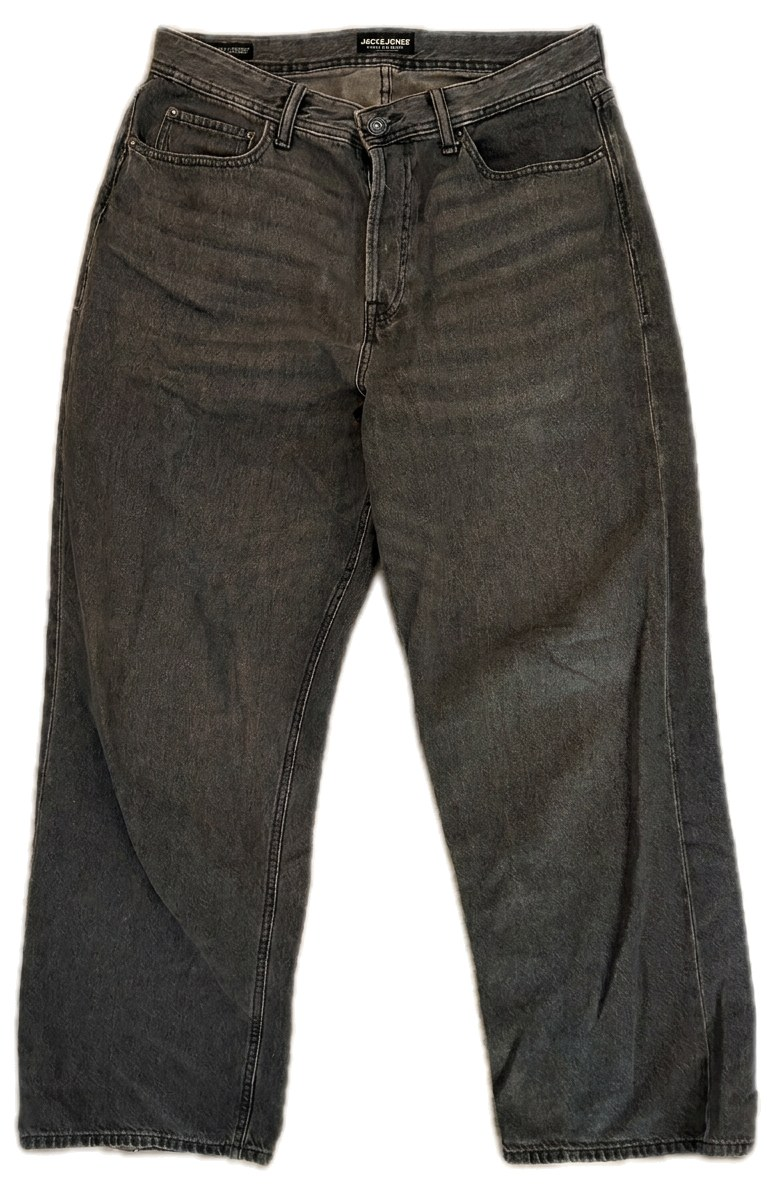
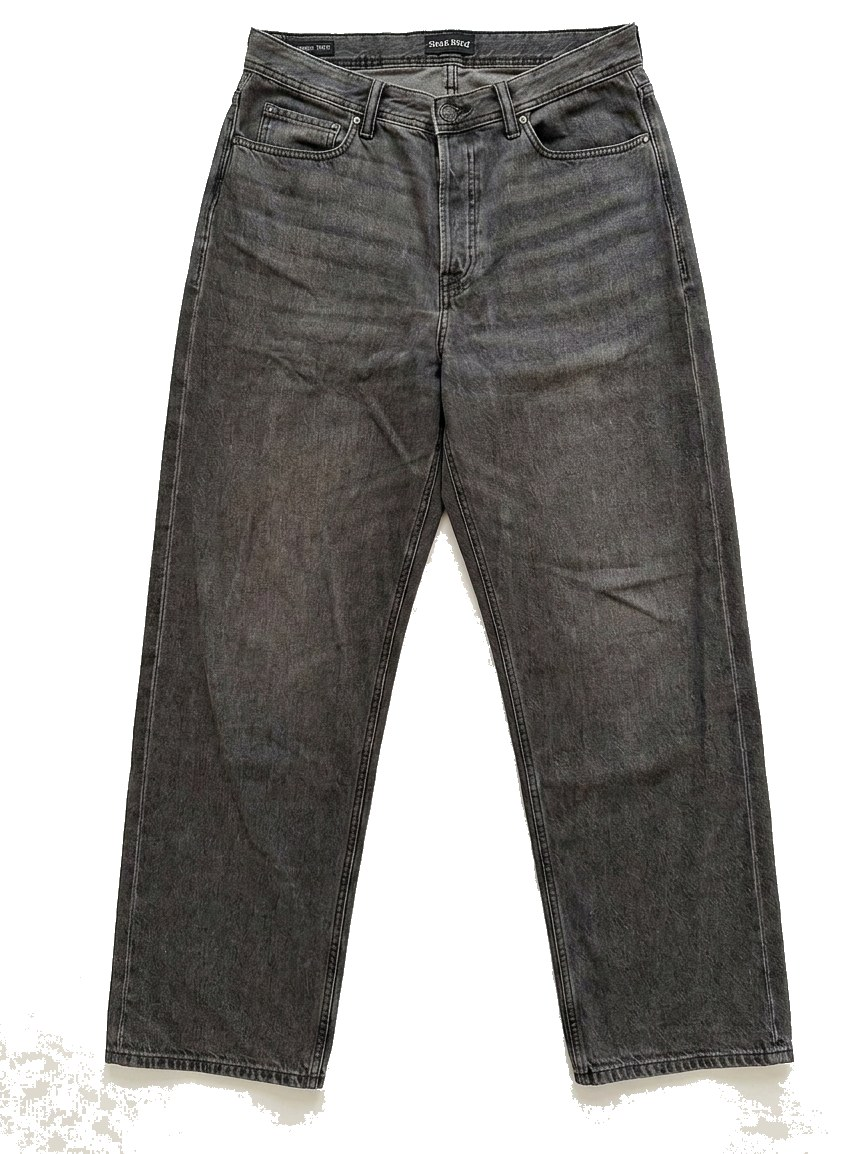
Fire billeder koert om fra fotos med baggrund; reference og fast pose i toj.py
Udklip som input gav kroeller og mannequin-volumen der ikke ville rette
sig; fotos med baggrund gjorde. klargoer.py tjekker nu hele kanten, ikke
kun hjoernerne, foer tolerancen regnes for god nok.

diff --git a/index.html b/index.html
@@ -16,7 +16,7 @@
 <!-- ?v= tvinger Safari til at hente filen paa ny. Bump datoen naar du aendrer
      style.css eller script.js - ellers kan telefonen sidde fast paa en gammel
      udgave, selvom den nye er pushet. -->
-<link rel="stylesheet" href="style.css?v=20260913j">
+<link rel="stylesheet" href="style.css?v=20260914a">
 </head>
 <body>
 
@@ -198,6 +198,6 @@
   </form>
 </dialog>
 
-<script src="script.js?v=20260913j" defer></script>
+<script src="script.js?v=20260914a" defer></script>
 </body>
 </html>

diff --git a/script.js b/script.js
@@ -135,7 +135,7 @@ const files = {
 /* Saet denne op naar et billede erstattes med et nyt UNDER SAMME filnavn
    (fx efter en rettelse som denne). Ellers bliver den gamle udgave siddende
    fast i Safaris cache paa telefonen, selvom filen er skiftet ud paa serveren. */
-const ASSET_VERSION = "20260912a";
+const ASSET_VERSION = "20260914a";
 
 /* Paenhed gaar fra 1 (mest afslappet) til 5 (pusset op) og bruges til at
    matche toejet med den valgte lejlighed. Toej uden en vaerdi lander paa

diff --git a/toj.py b/toj.py
@@ -6,7 +6,9 @@ from google.genai import types
 
 load_dotenv(".env")
 
-IND   = Path("raw")     # mappe med dine originalbilleder
+# Inputmappen kan skiftes med TOJ_IND=raw-baggrund - fotos MED baggrund gav
+# bedre resultat paa de stykker der ikke ville rette sig fra udklippene, se CLAUDE.md.
+IND   = Path(os.environ.get("TOJ_IND", "raw"))     # mappe med dine originalbilleder
 UD    = Path("klar")    # mappe hvor output lander
 MODEL = "gemini-3-pro-image"
 
@@ -28,31 +30,74 @@ FORSOEG = 5    # antal forsøg per billede
 
 # Testkørsel: sæt TEST til navnene på de stykker du vil teste (uden .png).
 # Sæt TEST = None når du vil køre hele garderoben.
-TEST = {"mid-7", "mid-11", "shoes-7", "shoes-13", "shoes-15", "shoes-18", "shorts-2"}
+# Anden omgang (september 2026): otte stykker der dækker de tre ting der
+# varierede i første omgang - krøller (top-15, top-37, bottom-10), volumen som
+# en usynlig mannequin (top-25, mid-22), og et par der var gode i forvejen
+# (top-7, mid-30, outerwear-6) for at se at de ikke bliver dårligere.
+# Tredje omgang: aermelinjen rettet (korte aermer ud til siden), haardere ord
+# om denim og volumen. top-7 er med for at bevise at gode ikke bliver daarlige.
+TEST = {"top-15", "top-7", "bottom-10", "top-25"}
+
+# Referencebillede per præfiks: et af de eksisterende billeder der har præcis
+# den stil alle skal have. Sendes med som billede nummer to, så modellen
+# efterligner en konkret stil i stedet for at tolke ord - det er det stærkeste
+# greb for at få en rød tråd. Sko har ingen reference; de var ensartede nok.
+REFERENCER = {
+    "top":       "img/top-7.jpg",
+    "mid":       "img/top-7.jpg",
+    "outerwear": "img/outerwear-5.jpg",
+    "bottom":    "img/bottom-11.jpg",
+    "shorts":    "img/bottom-11.jpg",
+}
 
 # Tøj der kan lægges fladt. Fælles prompt for alle kategorier på nær sko.
 # Katalog-look: tøjet skal se nyt og nyvasket ud, ikke slidt. Slid-klausulen
 # fra den første udgave er bevidst fjernet - det var den, der holdt det
 # gullige og brugte look fast. Identiteten holdes stadig fast (samme farve,
 # print, snit), ellers kommer der et andet stykke tøj ud.
-PROMPT_FLADT = """Transform this photo into a clean e-commerce product shot,
-as if the garment were brand new in a catalogue.
-Lay the garment completely flat and symmetrical, sleeves or legs
-extended, collar or waistband centered. The input photo may be rotated
-or sideways: rotate the garment so it stands upright in the final image,
-collar or waistband at the top and hem at the bottom, never lying on its
-side. Remove all wrinkles and creases,
-and make the fabric look freshly laundered and pressed. Remove stains,
-dirt, pilling, yellowing and discoloration, so the garment looks clean
-and evenly colored.
+# Anden udgave af prompten. Den første lod modellen vælge pose selv
+# ("sleeves extended" kan betyde ud til siden eller ned langs kroppen), og
+# den tog nogle gange en usynlig mannequin med volumen i skuldrene i stedet
+# for en flad genstand. Denne udgave låser én pose fast og peger på et
+# referencebillede. Krølle-instruktionen er skærpet, fordi et mindretal
+# kom tilbage ukrøllede alligevel.
+PROMPT_FLADT = """You are given two images. The FIRST image is a photo of a
+garment. The SECOND image is a style reference: a finished product shot in
+exactly the style the output must have. Copy the style of the second image
+- the flat presentation, the lighting, the framing, the white background -
+but the garment itself must be the one from the FIRST image.
+
+Produce a clean e-commerce product shot of the garment from the first
+image, as if it were brand new in a catalogue:
+
+- The garment lies perfectly FLAT on the surface, photographed straight
+  from above. It is EMPTY: no body inside it, no invisible mannequin, no
+  volume or rounding in the shoulders or chest, no shading that suggests a
+  torso. Think of it as a paper cut-out with zero thickness.
+- Short sleeves lie in their natural position, pointing out to the sides,
+  fully visible and never folded under or tucked in. Long sleeves lie
+  straight down along the sides of the body. Trouser legs lie straight
+  down, parallel, slightly apart. Collar or waistband centered at the top,
+  hem at the bottom. Perfectly symmetrical.
+- The input photo may be rotated or sideways: rotate the garment so it
+  stands upright, never lying on its side.
+- The fabric is freshly laundered and PRESSED: absolutely no wrinkles,
+  creases, folds or bunching anywhere. Smooth and even like a new garment
+  on a shop shelf. This is required even if the photo is very wrinkled.
+  For denim and trousers: keep the fading and the weave of the fabric,
+  but the surface must be completely smooth - creases across the legs,
+  at the knees or at the crotch are wrinkles, not texture, and must go.
+- Remove stains, dirt, pilling, yellowing and discoloration, so the color
+  is clean and even.
+
 It must remain the exact same garment: the same base color, the same
 pattern, the same print and its placement, the same cut, collar, buttons
 and proportions. Do not invent details and do not restyle the design.
+
 The background must be flat, uniform, pure white (#FFFFFF) across the
 whole frame: no grey backdrop, no gradient, no vignette, and no cast
-shadow on the surface under the garment.
-Soft even studio lighting, straight top-down view, garment centered and
-filling the frame."""
+shadow on the surface under the garment. Soft even studio lighting,
+garment centered and filling the frame."""
 
 # Sko kan ikke lægges fladt med "ærmer og ben strakt ud" - de skal stå
 # i den sædvanlige produktvinkel fra siden.
@@ -127,11 +172,19 @@ for i, fil in enumerate(filer, 1):
     mime = mimetypes.guess_type(fil.name)[0] or "image/jpeg"
     billede = types.Part.from_bytes(data=fil.read_bytes(), mime_type=mime)
 
+    # Foto først, reference bagefter - prompten omtaler dem som første og anden.
+    indhold = [billede]
+    reference = REFERENCER.get(præfiks)
+    if reference:
+        indhold.append(types.Part.from_bytes(data=Path(reference).read_bytes(),
+                                             mime_type="image/jpeg"))
+    indhold.append(prompt)
+
     for forsøg in range(FORSOEG):
         try:
             svar = client.models.generate_content(
                 model=MODEL,
-                contents=[billede, prompt],
+                contents=indhold,
                 config=types.GenerateContentConfig(
                     response_modalities=["IMAGE"],
                     image_config=types.ImageConfig(aspect_ratio=format)),

diff --git a/klargoer.py b/klargoer.py
@@ -30,6 +30,7 @@ UD   = Path("klar-klargjort")
 LUFT     = 0.02      # andel af motivets stoerrelse der beholdes som ramme
 KVALITET = 88        # JPEG-kvalitet - 88 er visuelt uskelneligt fra PNG her
 TRIN = (12, 30, 45)  # tolerancer der proeves i raekkefoelge
+KANT_ANDEL = 0.995   # saa stor en del af kanten skal vaere baggrund foer tolerancen er god nok
 
 
 def find_baggrund(im, tolerance):
@@ -67,11 +68,16 @@ def klargoer(sti):
     w, h = im.size
     px = im.load()
 
-    # Proev stadig loesere tolerance indtil hjoernerne bliver hvide
+    # Proev stadig loesere tolerance indtil (naesten) hele kanten er baggrund.
+    # Foer blev kun de fire hjoerner tjekket, og saa slap et baand igennem
+    # hvor baggrunden var moerkere langs den ene kant end i hjoernerne -
+    # modellen tegner af og til en papirbaggrund med en svag gradient.
+    kant = [(x, y) for x in range(w) for y in (2, h-3)] + \
+           [(x, y) for y in range(h) for x in (2, w-3)]
     for tolerance in TRIN:
         erbag = find_baggrund(im, tolerance)
-        hjoerner = [(2, 2), (w-3, 2), (2, h-3), (w-3, h-3)]
-        if all(erbag[y*w + x] for x, y in hjoerner):
+        andel = sum(erbag[y*w + x] for x, y in kant) / len(kant)
+        if andel >= KANT_ANDEL:
             break
 
     for y in range(h):

diff --git a/CLAUDE.md b/CLAUDE.md
@@ -35,8 +35,10 @@ skabet/
     outerwear-*.jpg, mid-*.jpg, top-*.jpg, bottom-*.jpg, shoes-*.jpg   produktbilleder
     shorts-*.jpg          shorts-pulje, se "Sådan virker logikken"
     original-jpg/       de oprindelige fotos, git-ignoreret, bruges ikke af appen
-  raw/                  de 119 fotos som de kom fra kameraet, git-ignoreret
+  raw/                  de 119 fotos som UDKLIP (gennemsigtig baggrund), git-ignoreret
+  raw-baggrund/         fotos MED baggrund - det input der virker bedst, git-ignoreret
   klar/                 modellens raa output, git-ignoreret
+  klar-v1/ -v2/ -v3/    gamle outputs fra tidligere omgange, git-ignoreret
   klar-klargjort/       efter klargoer.py - kopieres til img/, git-ignoreret,
                         slettes trygt (klargoer.py laver den igen gratis)
   toj.py                sender billeder til Gemini, se "Billederne"
@@ -515,15 +517,24 @@ trial-kreditten kan ikke bruges der. 119 billeder kostede cirka 100 kr.
 
 To scripts, som køres i rækkefølge:
 
-1. **`toj.py`** sender hvert foto i `raw/` til modellen og gemmer svaret i
-   `klar/`. Prompten vælges ud fra filnavnets præfiks (`PROMPTS`), og
-   billedformatet ligeså (`FORMATER`). Tøj bedes om et stående 3:4-format og
-   sko om et liggende 4:3 — **det er formatet, ikke prompten, der får
-   modellen til at vende motivet rigtigt.** Uden det arvede den bare
-   originalfotoets rotation.
+1. **`toj.py`** sender hvert foto i `raw/` (eller mappen i miljøvariablen
+   `TOJ_IND`) til modellen og gemmer svaret i `klar/`. Prompten vælges ud
+   fra filnavnets præfiks (`PROMPTS`), og billedformatet ligeså
+   (`FORMATER`). Tøj bedes om et stående 3:4-format og sko om et liggende
+   4:3 — **det er formatet, ikke prompten, der får modellen til at vende
+   motivet rigtigt.** Uden det arvede den bare originalfotoets rotation.
+   Der sendes desuden et **referencebillede** med (`REFERENCER`, ét af de
+   eksisterende billeder pr. præfiks), som prompten peger på som "sådan
+   skal stilen være". Prompten låser posen fast: fladt, tomt, korte ærmer
+   ud til siden, lange ærmer ned langs kroppen.
 2. **`klargoer.py`** læser `klar/` og skriver `klar-klargjort/`. Den maler
    baggrunden rent hvid, beskærer den hvide luft væk så tøjet fylder rammen,
    og gemmer som **JPEG** i kvalitet 88. Den koster ingenting og kan køres igen.
+
+   Tolerancen hæves i trin indtil mindst `KANT_ANDEL` (99,5 %) af kanten
+   er baggrund — ikke kun de fire hjørner, som det var før. Modellen tegner
+   af og til en papirbaggrund med en svag gradient, og så slap et mørkere
+   bånd langs den ene kant igennem.
 
    Formatet er ikke ligegyldigt: som PNG fyldte de 119 billeder 106 MB, som
    JPEG fylder de 14 MB — syv gange mindre uden synlig forskel, heller ikke
@@ -535,6 +546,18 @@ Indholdet af `klar-klargjort/` kopieres derefter til `img/`. **Husk at bumpe
 
 Ting der er lært undervejs, og som koster penge at finde ud af igen:
 
+- **Send fotos MED baggrund, ikke udklip.** Første omgang (september 2026)
+  blev kørt fra fritlagte udklip i `raw/`, og resultatet varierede: et
+  mindretal kom tilbage krøllede (top-12/15/16/37, mid-27, bottom-4/10/15/
+  16/18), nogle med volumen som en usynlig mannequin (top-23/25/26,
+  mid-14/15/22), og ærmerne lå tilfældigt. Tre runder med strammere prompt
+  og reference bed ikke på jeans-krøller og volumen. Det gjorde fotos med
+  bord og gulv i — modellen får kontekst og lægger tøjet om, hvor et udklip
+  *er* sin silhuet, så den kopierer bulerne trofast. Fire stykker (top-7,
+  top-15, top-25, bottom-10) er kørt om fra `raw-baggrund/` og ligger i
+  `img/`; resten af garderoben venter på fotos med baggrund.
+- **Gode billeder skal ikke køres om.** top-7 var perfekt fra første omgang
+  og blev dårligere to gange i træk fra udklippet. Kør kun det der er skævt.
 - **Kvoten rammes før pengene.** Et nyt Google Cloud-projekt har lav kvote på
   billedmodellen, og svaret er `429 RESOURCE_EXHAUSTED` — det handler om kald
   per minut, ikke om beløb. Derfor `PAUSE` og den lange ventetid i `toj.py`.
@@ -555,8 +578,9 @@ Ting der er lært undervejs, og som koster penge at finde ud af igen:
   misfarvning, så `farve`-feltet i `files` — som blev sat ud fra de gamle
   fotos — kan passe dårligere nu.
 
-`raw/`, `klar/` og `klar-klargjort/` er git-ignorerede: de fylder flere
-hundrede MB tilsammen, og repoet er offentligt. **Appen bruger kun `img/`** —
+`raw/`, `raw-baggrund/`, `klar/`, `klar-v*/` og `klar-klargjort/` er
+git-ignorerede: de fylder flere hundrede MB tilsammen, og repoet er
+offentligt. **Appen bruger kun `img/`** —
 de tre andre er arbejdsmapper.
 
 Behold dem alligevel. `raw/` er dine originalfotos og kan ikke genskabes uden
